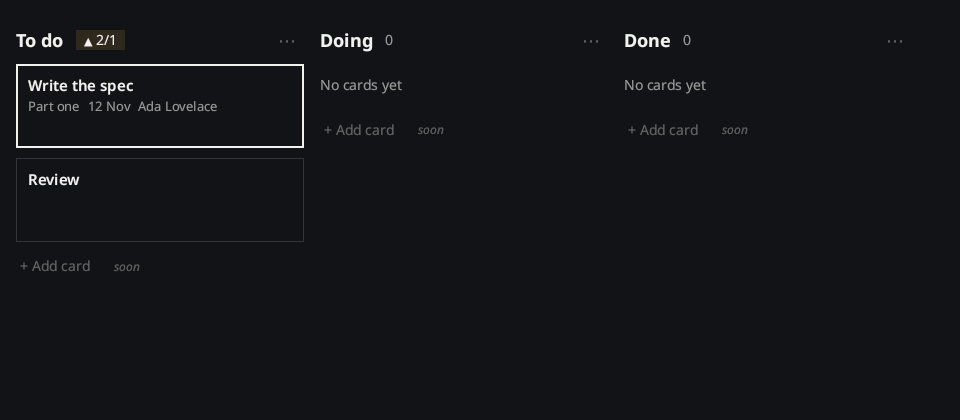
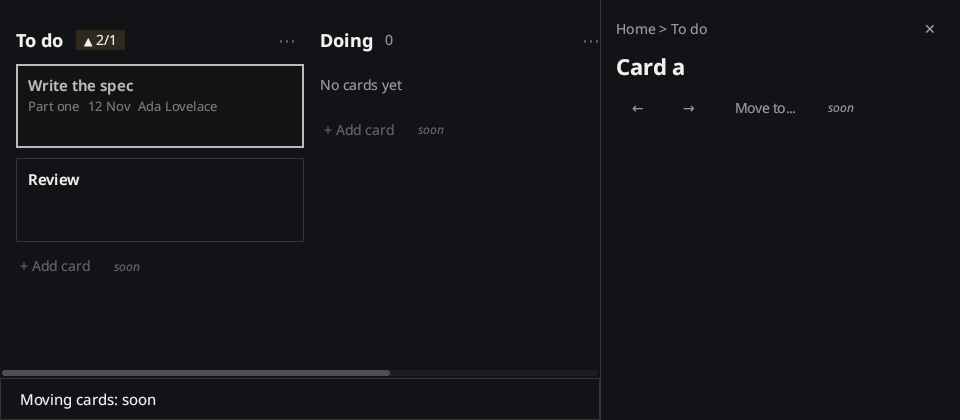
board K3 r5: board_plain shows the lock in the picture (frame with locked move buttons, notice line), counter-test plain against moves, play_picture comment

diff --git a/crates/fs-components-pictures/tests/kanban_group.rs b/crates/fs-components-pictures/tests/kanban_group.rs
@@ -8,7 +8,8 @@ use std::sync::Arc;
 
 use fs_components_fields::Look;
 use fs_components_kanban::{
-    BoardBench, Card, Column, Due, DueState, Labels, MemoryBoard, Operation,
+    BoardBench, Card, Column, DetailContent, DetailFrame, Due, DueState, Labels, MemoryBoard,
+    Operation, Reason,
 };
 use fs_components_pictures::{Group, Tolerance};
 use fs_components_styles::StyleId;
@@ -17,7 +18,15 @@ fn group() -> Group {
     Group::new("kanban", (960, 420), Tolerance::SYSTEM_FONT_BOARD)
 }
 
-fn board(without: &[Operation], menu: bool) -> BoardBench {
+struct Detail;
+
+impl DetailContent for Detail {
+    fn frame(&self, card: &str) -> Option<DetailFrame> {
+        Some(DetailFrame::new(format!("Card {card}")).path("Home > To do"))
+    }
+}
+
+fn board(without: &[Operation], menu: bool, locked: bool) -> BoardBench {
     let mut a = Card::new("a", "Write the spec");
     a.subtitle = Some("Part one".into());
     a.due = Some(Due {
@@ -39,23 +48,38 @@ fn board(without: &[Operation], menu: bool) -> BoardBench {
     if !menu {
         host = host.without_menu();
     }
+    if locked {
+        host = host
+            .locking("a", Reason::new("claimed", "Held by an agent."))
+            .refusing("done", Reason::new("closed", "The column is closed."));
+    }
     let host = Arc::new(host);
-    BoardBench::new(host.clone(), Labels::default())
+    let bench = BoardBench::new(host.clone(), Labels::default())
         .events(host)
+        .detail(Arc::new(Detail))
         .id("B")
-        .look(Look::new(StyleId::Craft, false))
+        .look(Look::new(StyleId::Craft, false));
+    if locked {
+        // What a reader without the right to move sees: the frame of the card with the move buttons locked ("soon"), and after a press
+        // on the card the line under the board says "Moving cards: soon". The moves picture has neither, and the two differ by more
+        // than the tolerance of the group (`tests/tolerance_counter.rs`), so the lock is seen in the picture.
+        bench.open("a");
+        bench.press("a", (100.0, 100.0));
+    }
+    bench
 }
 
 #[test]
 fn a_board_with_moves() {
     // Everything is supported but the quick entry (the foot of a column is drawn locked with "soon").
-    let b = board(&[Operation::AddCard], true);
+    let b = board(&[Operation::AddCard], true, false);
     group().check("board_moves", &fullstyles(), |w, h| b.build(w, h));
 }
 
 #[test]
 fn a_board_without_operations() {
-    let b = board(&Operation::ALL, false);
+    // Nothing may be done and the menu is off; the card "a" and the column "done" are locked, which is what the picture must show.
+    let b = board(&Operation::ALL, false, true);
     group().check("board_plain", &fullstyles(), |w, h| b.build(w, h));
 }
 

diff --git a/crates/fs-components-app/tests/play_picture.rs b/crates/fs-components-app/tests/play_picture.rs
@@ -111,9 +111,9 @@ fn a_played_input_moves_the_card_and_the_picture_shows_it_in_the_new_column() {
         b, a,
         "the picture after the input still shows the old state"
     );
-    // The played picture is not pixel-equal to the fresh one (the fresh one has the cursor on "Review", and the played one has the line
-    // "Moved - Undo" under the board, which shifts the heads by a pixel), so the pictures are compared with the one before the move:
-    // the columns "to do" and "doing" change, and the line under the board is there.
+    // The played picture is not pixel-equal to the fresh one (the played one has the line "Moved - Undo" under the board, which shifts
+    // the heads by a pixel), so the played picture is first compared with the one before the move: the columns "to do" and "doing"
+    // change, and the line under the board is there. Then only the columns of the card (0..300, rows <590) are compared with the fresh one.
     let same = |x: &image::RgbaImage, y: &image::RgbaImage, cols: std::ops::Range<u32>| {
         cols.clone()
             .all(|c| (0..590).all(|r| x.get_pixel(c, r) == y.get_pixel(c, r)))

diff --git a/crates/fs-components-pictures/tests/tolerance_counter.rs b/crates/fs-components-pictures/tests/tolerance_counter.rs
@@ -108,3 +108,22 @@ fn a_move_of_three_pixels_a_wrong_colour_and_a_missing_drawing_stay_red() {
         }
     }
 }
+
+#[test]
+fn the_board_without_operations_is_not_within_the_tolerance_of_the_board_with_moves() {
+    // H-K5 (ADR 0096): what the program does not support is drawn locked ("soon"); if the two references only differ by a few
+    // pixels (the column menus), `board_plain` would pass against the moves picture and the lock would go unseen in the image.
+    let t = Tolerance::SYSTEM_FONT_BOARD;
+    let (plain, moves) = (
+        reference("kanban", "board_plain"),
+        reference("kanban", "board_moves"),
+    );
+    for (a, b) in [(&plain, &moves), (&moves, &plain)] {
+        let r = compare(a, b, t);
+        assert!(
+            !r.within(t),
+            "plain and moves look the same within the tolerance: {}",
+            r.describe()
+        );
+    }
+}
